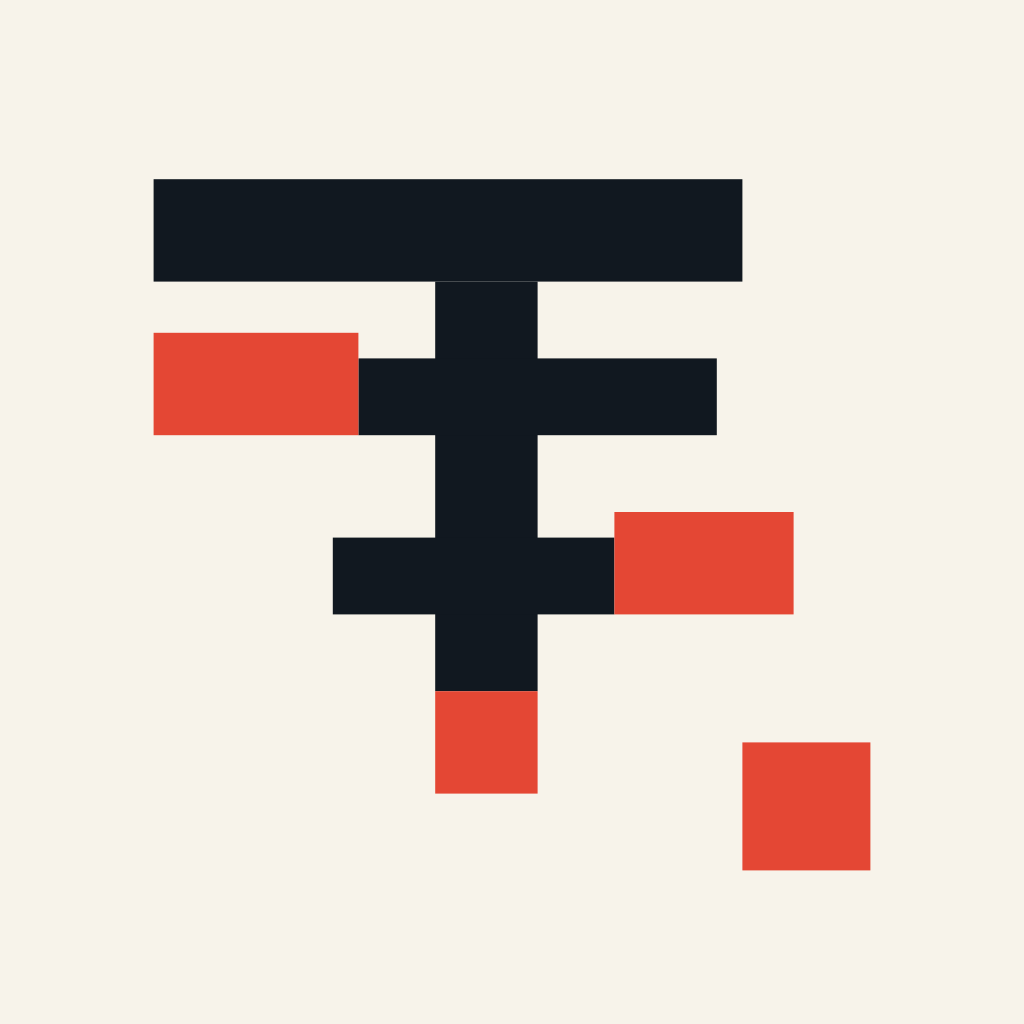
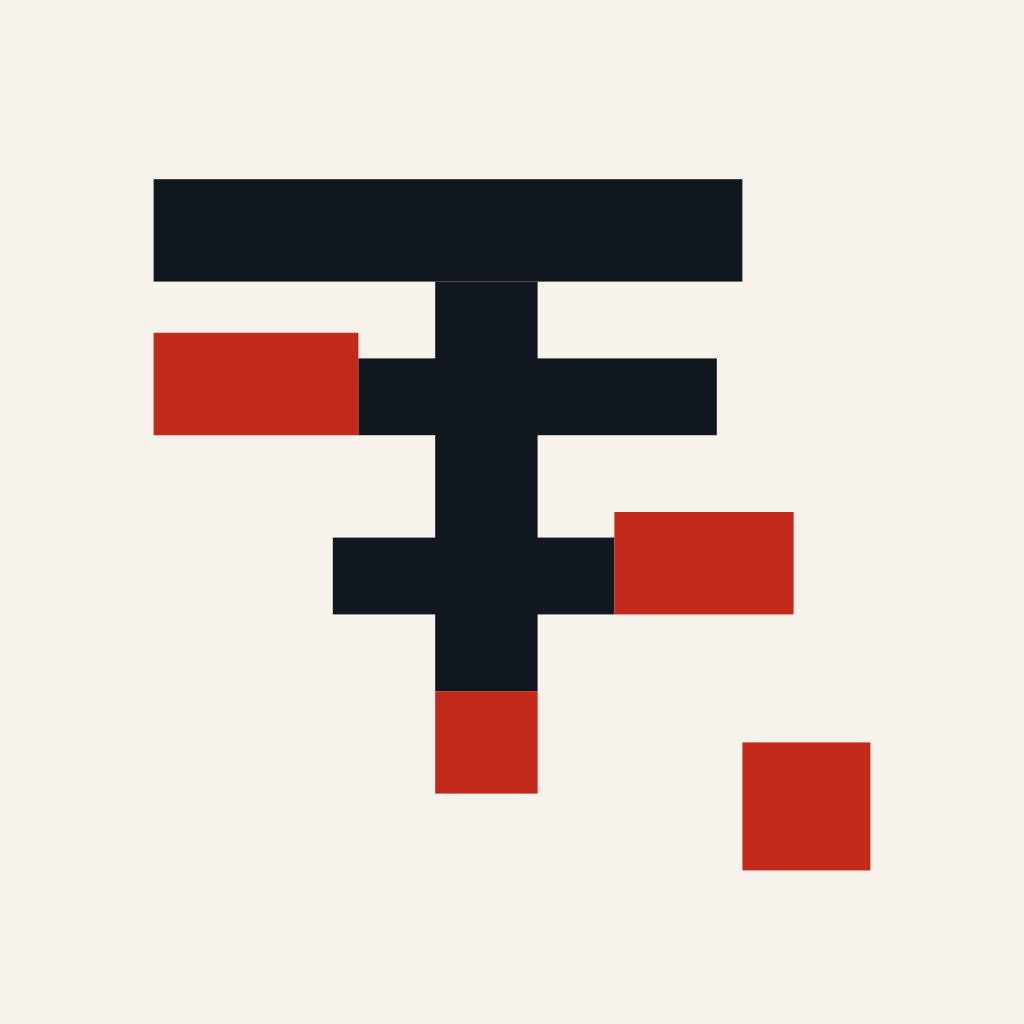
feat(brand): adopt the Twente flag red — RGB 195 41 27 (#c3291b)
Replaces the pack's #e44734 across the entire system. The flag red is
5.2:1 on warm paper, so the graphic and interactive reds collapse into
one color in light mode (--accent-strong now aliases --signal-red);
dark mode keeps a lightened cut (#e85c48, 4.9:1 on ink). Derived
states re-cut: hover #a52114 (light) / #ef7361 (dark), subtle tints
re-tinted to the new hue.

Swept everywhere the old red lived:
- tokens.css, styleguide swatches and rules, press-page brand colours
  (EN/NL), docs/design/tokens.json, favicon.svg, twente-dev-mark.svg
- the four pack PNGs (logo, mark, social banner, speaker tile)
  recolored programmatically — exact-match for solid red plus a
  segment-projection remap for antialiased edge blends, with palette
  guards so warm paper stays warm paper
- all six social-kit assets re-rendered from source

diff --git a/src/styles/tokens.css b/src/styles/tokens.css
@@ -15,13 +15,16 @@
 :root {
   /* ---- brand ------------------------------------------------------------ */
   --ink: #111820;
-  --signal-red: #e44734;
+  /* RGB 195 41 27 — the Twente flag's actual red, adopted 2026-08-11 over
+     the pack's #e44734. A happy side effect: it is 5.2:1 on warm paper, so
+     in light mode the graphic red and the interactive red are one color. */
+  --signal-red: #c3291b;
   --warm-paper: #f7f3ea;
   --thread-grey: #d9dfdc;
 
-  /* Derived brand shades (not in the pack; darkened/lightened for states). */
-  --signal-red-dark: #c33427;
-  --signal-red-light: #ec5a45;
+  /* Derived brand shades (darkened/lightened for states and dark mode). */
+  --signal-red-dark: #a52114;
+  --signal-red-light: #e85c48;
 
   /* Legacy alias — a few components predate the brand pack. */
   --twente-red: var(--signal-red);
@@ -113,14 +116,13 @@
   --border-strong: #b6bfbb;
 
   --accent: var(--signal-red);
-  /* Signal red is a *graphic* color: at #e44734 it is only ~3.6:1 against
-     warm paper, fine for marks and large display, an AA failure for body
-     text and small button labels. Interactive/small-text red uses this
-     darker cut (≥4.5:1 on paper, ≥5.5:1 under white). */
-  --accent-strong: #bf3322;
+  /* The Twente red is AA-safe on warm paper (5.2:1), so graphic and
+     interactive red coincide in light mode. The token stays separate
+     because dark mode still needs a lightened cut for text on ink. */
+  --accent-strong: var(--signal-red);
   --accent-hover: var(--signal-red-dark);
   --accent-fg: #ffffff;
-  --accent-subtle: #fbe6e0;
+  --accent-subtle: #f6dcd6;
 
   --focus-ring: var(--signal-red);
 
@@ -149,9 +151,9 @@
 
     --accent: var(--signal-red-light);
     --accent-strong: var(--signal-red-light);
-    --accent-hover: #f0755f;
+    --accent-hover: #ef7361;
     --accent-fg: var(--ink);
-    --accent-subtle: #2c1a1a;
+    --accent-subtle: #2e1512;
 
     --focus-ring: var(--signal-red-light);
 
@@ -180,9 +182,9 @@
 
   --accent: var(--signal-red-light);
   --accent-strong: var(--signal-red-light);
-  --accent-hover: #f0755f;
+  --accent-hover: #ef7361;
   --accent-fg: var(--ink);
-  --accent-subtle: #2c1a1a;
+  --accent-subtle: #2e1512;
 
   --focus-ring: var(--signal-red-light);
 
